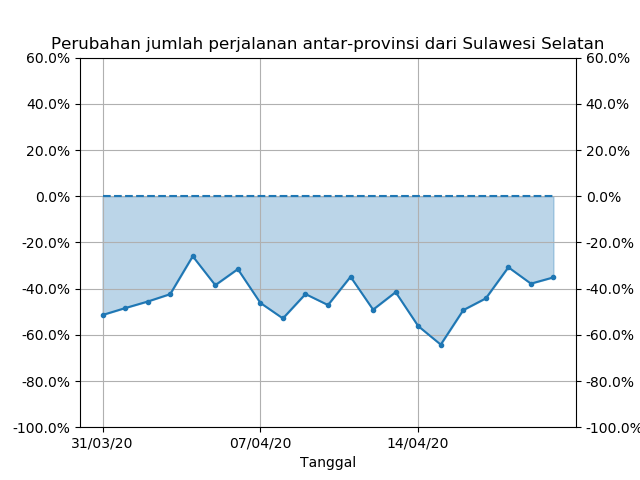
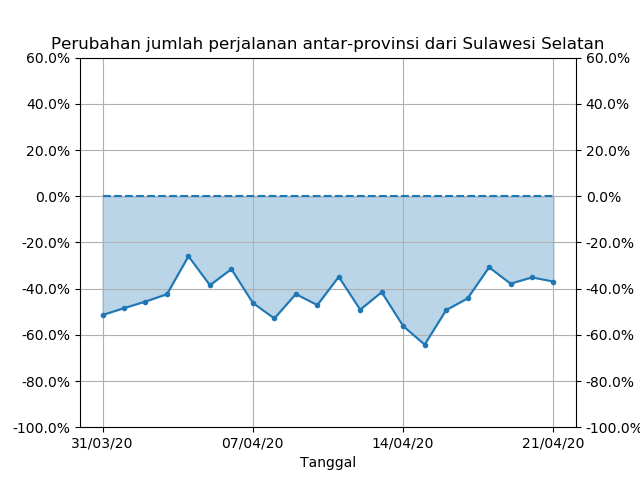
Daily update

diff --git a/idcovid19-mobility.md b/idcovid19-mobility.md
@@ -6,34 +6,34 @@ permalink: /idcovid19-mobility/
 ---
 
 Sumber data: [Facebook GeoInsight](https://www.facebook.com/geoinsights-portal/) dan [Indonesia GeoJSON](https://github.com/superpikar/indonesia-geojson) <br/>
-Diperbarui pada: 22/04/2020<br/>
+Diperbarui pada: 23/04/2020<br/>
 
 #### DKI Jakarta
 
-Rata-rata 10 hari terakhir: \\(\left(-53.7\pm 5.4\right)\%\\)
+Rata-rata 10 hari terakhir: \\(\left(-51.9\pm 5.0\right)\%\\)
 
 <img title="DKI Jakarta" src="{{ site.baseurl }}/assets/idcovid19-mobility/antar-provinsi_dari_dki_jakarta.png" width="50%"/>
 
 #### Jawa Barat
 
-Rata-rata 10 hari terakhir: \\(\left(-52.0\pm 5.6\right)\%\\)
+Rata-rata 10 hari terakhir: \\(\left(-50.5\pm 5.8\right)\%\\)
 
 <img title="Jawa Barat" src="{{ site.baseurl }}/assets/idcovid19-mobility/antar-provinsi_dari_jawa_barat.png" width="50%"/>
 
 #### Jawa Timur
 
-Rata-rata 10 hari terakhir: \\(\left(-19.5\pm 7.3\right)\%\\)
+Rata-rata 10 hari terakhir: \\(\left(-15.3\pm 12.1\right)\%\\)
 
 <img title="Jawa Timur" src="{{ site.baseurl }}/assets/idcovid19-mobility/antar-provinsi_dari_jawa_timur.png" width="50%"/>
 
 #### Sulawesi Selatan
 
-Rata-rata 10 hari terakhir: \\(\left(-44.3\pm 10.0\right)\%\\)
+Rata-rata 10 hari terakhir: \\(\left(-44.5\pm 9.8\right)\%\\)
 
 <img title="Sulawesi Selatan" src="{{ site.baseurl }}/assets/idcovid19-mobility/antar-provinsi_dari_sulawesi_selatan.png" width="50%"/>
 
 #### Jawa Tengah
 
-Rata-rata 10 hari terakhir: \\(\left(-33.6\pm 7.7\right)\%\\)
+Rata-rata 10 hari terakhir: \\(\left(-32.0\pm 7.7\right)\%\\)
 
 <img title="Jawa Tengah" src="{{ site.baseurl }}/assets/idcovid19-mobility/antar-provinsi_dari_jawa_tengah.png" width="50%"/>
